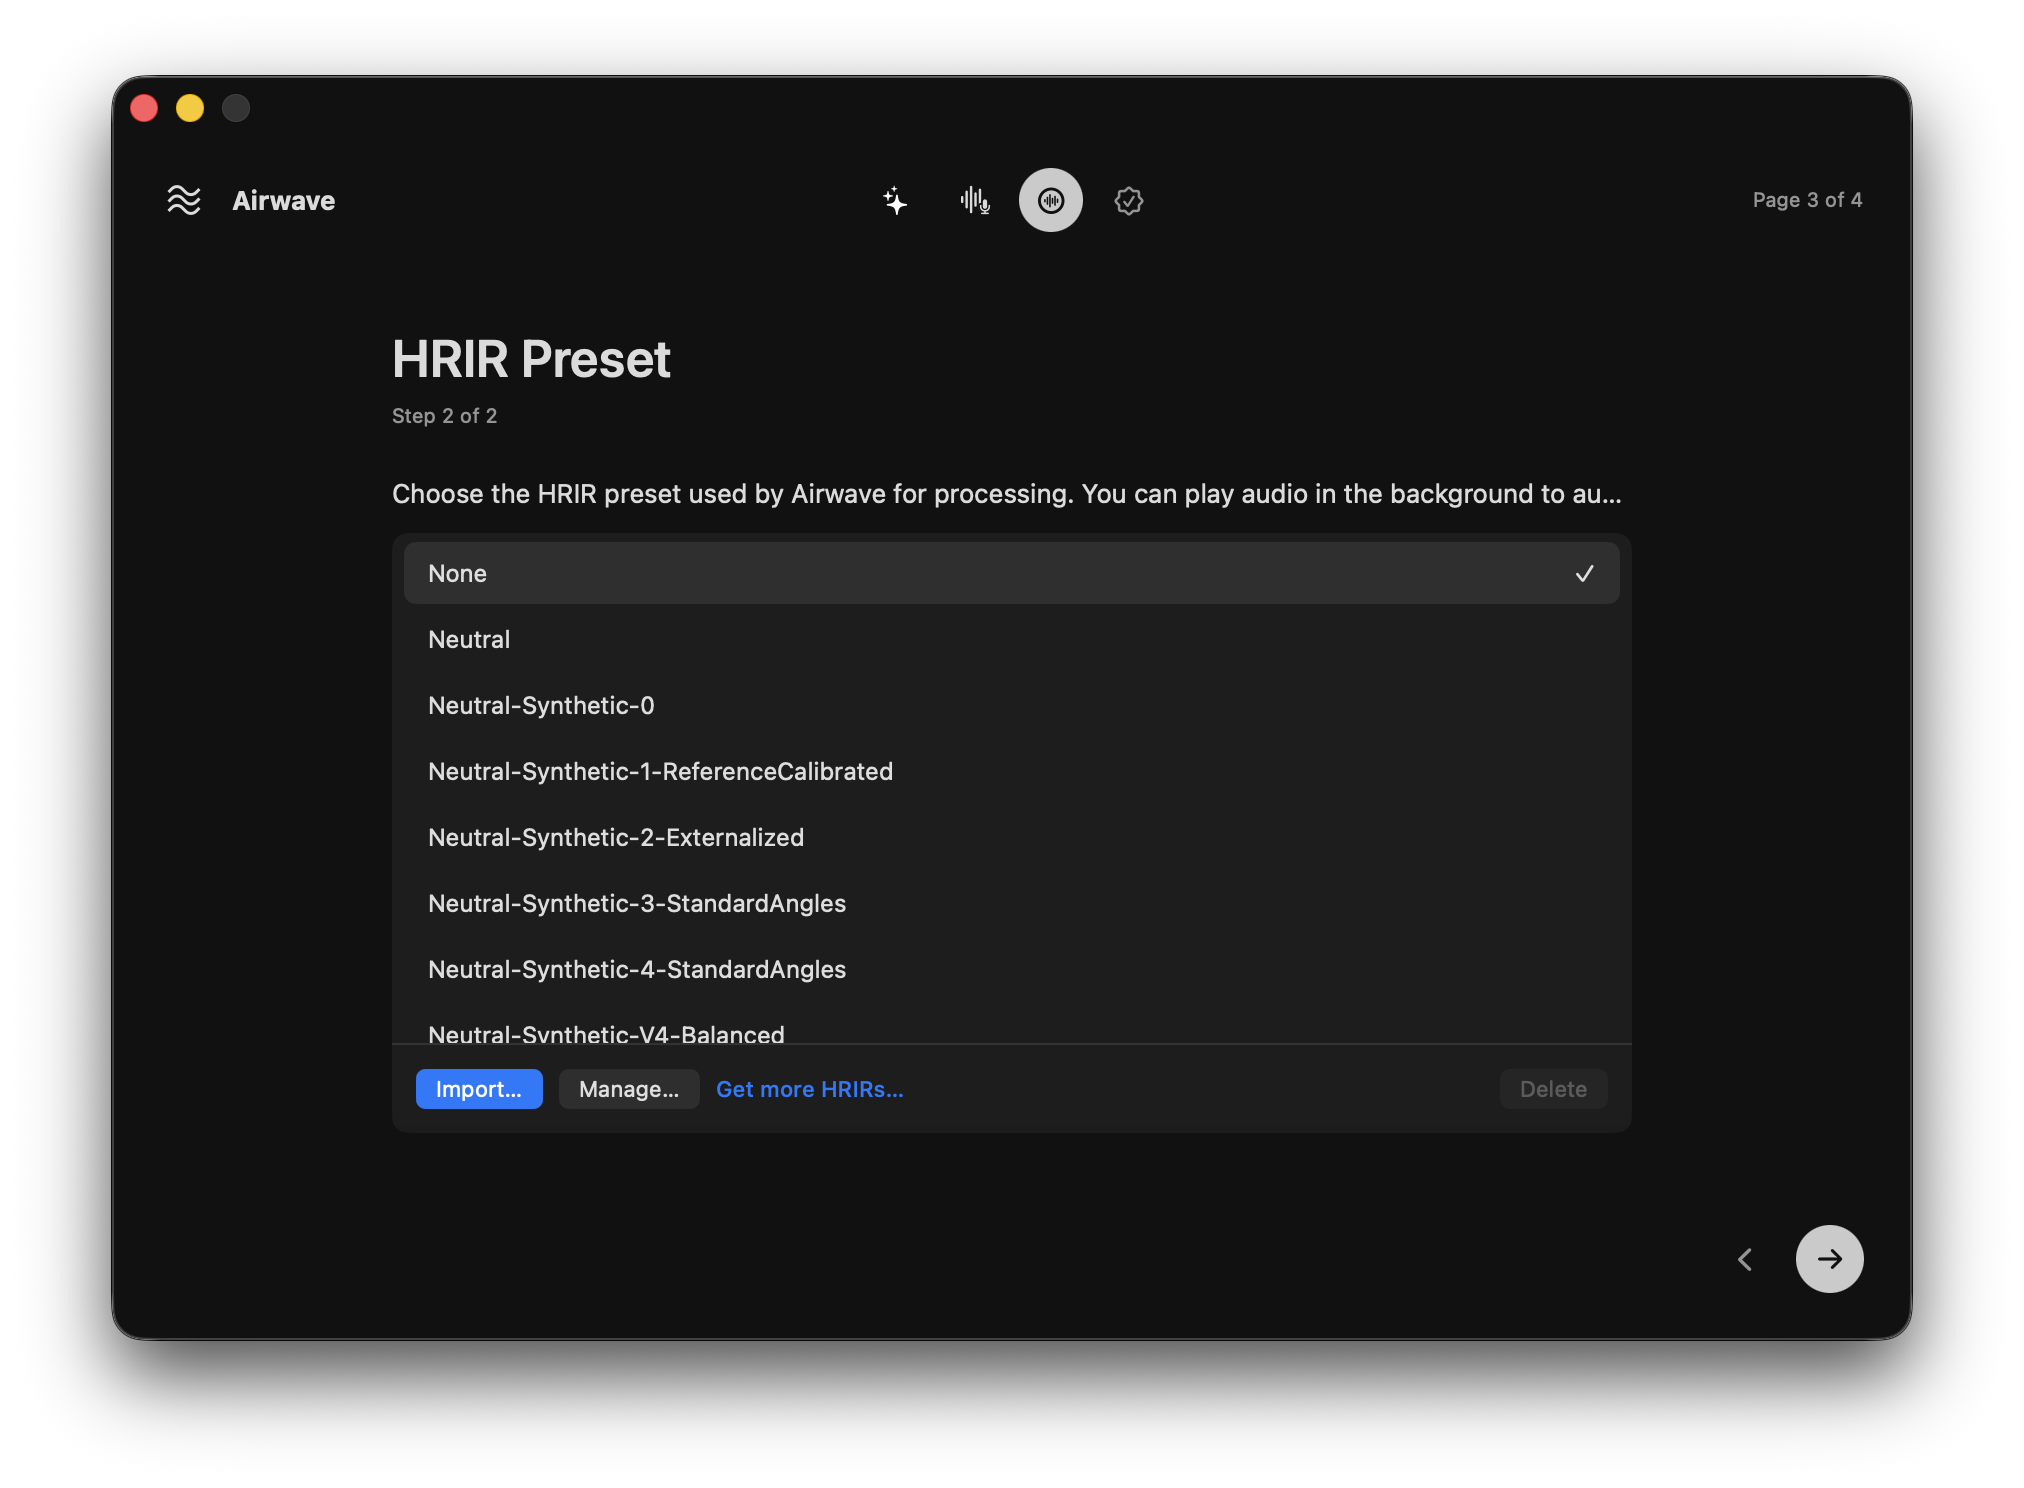
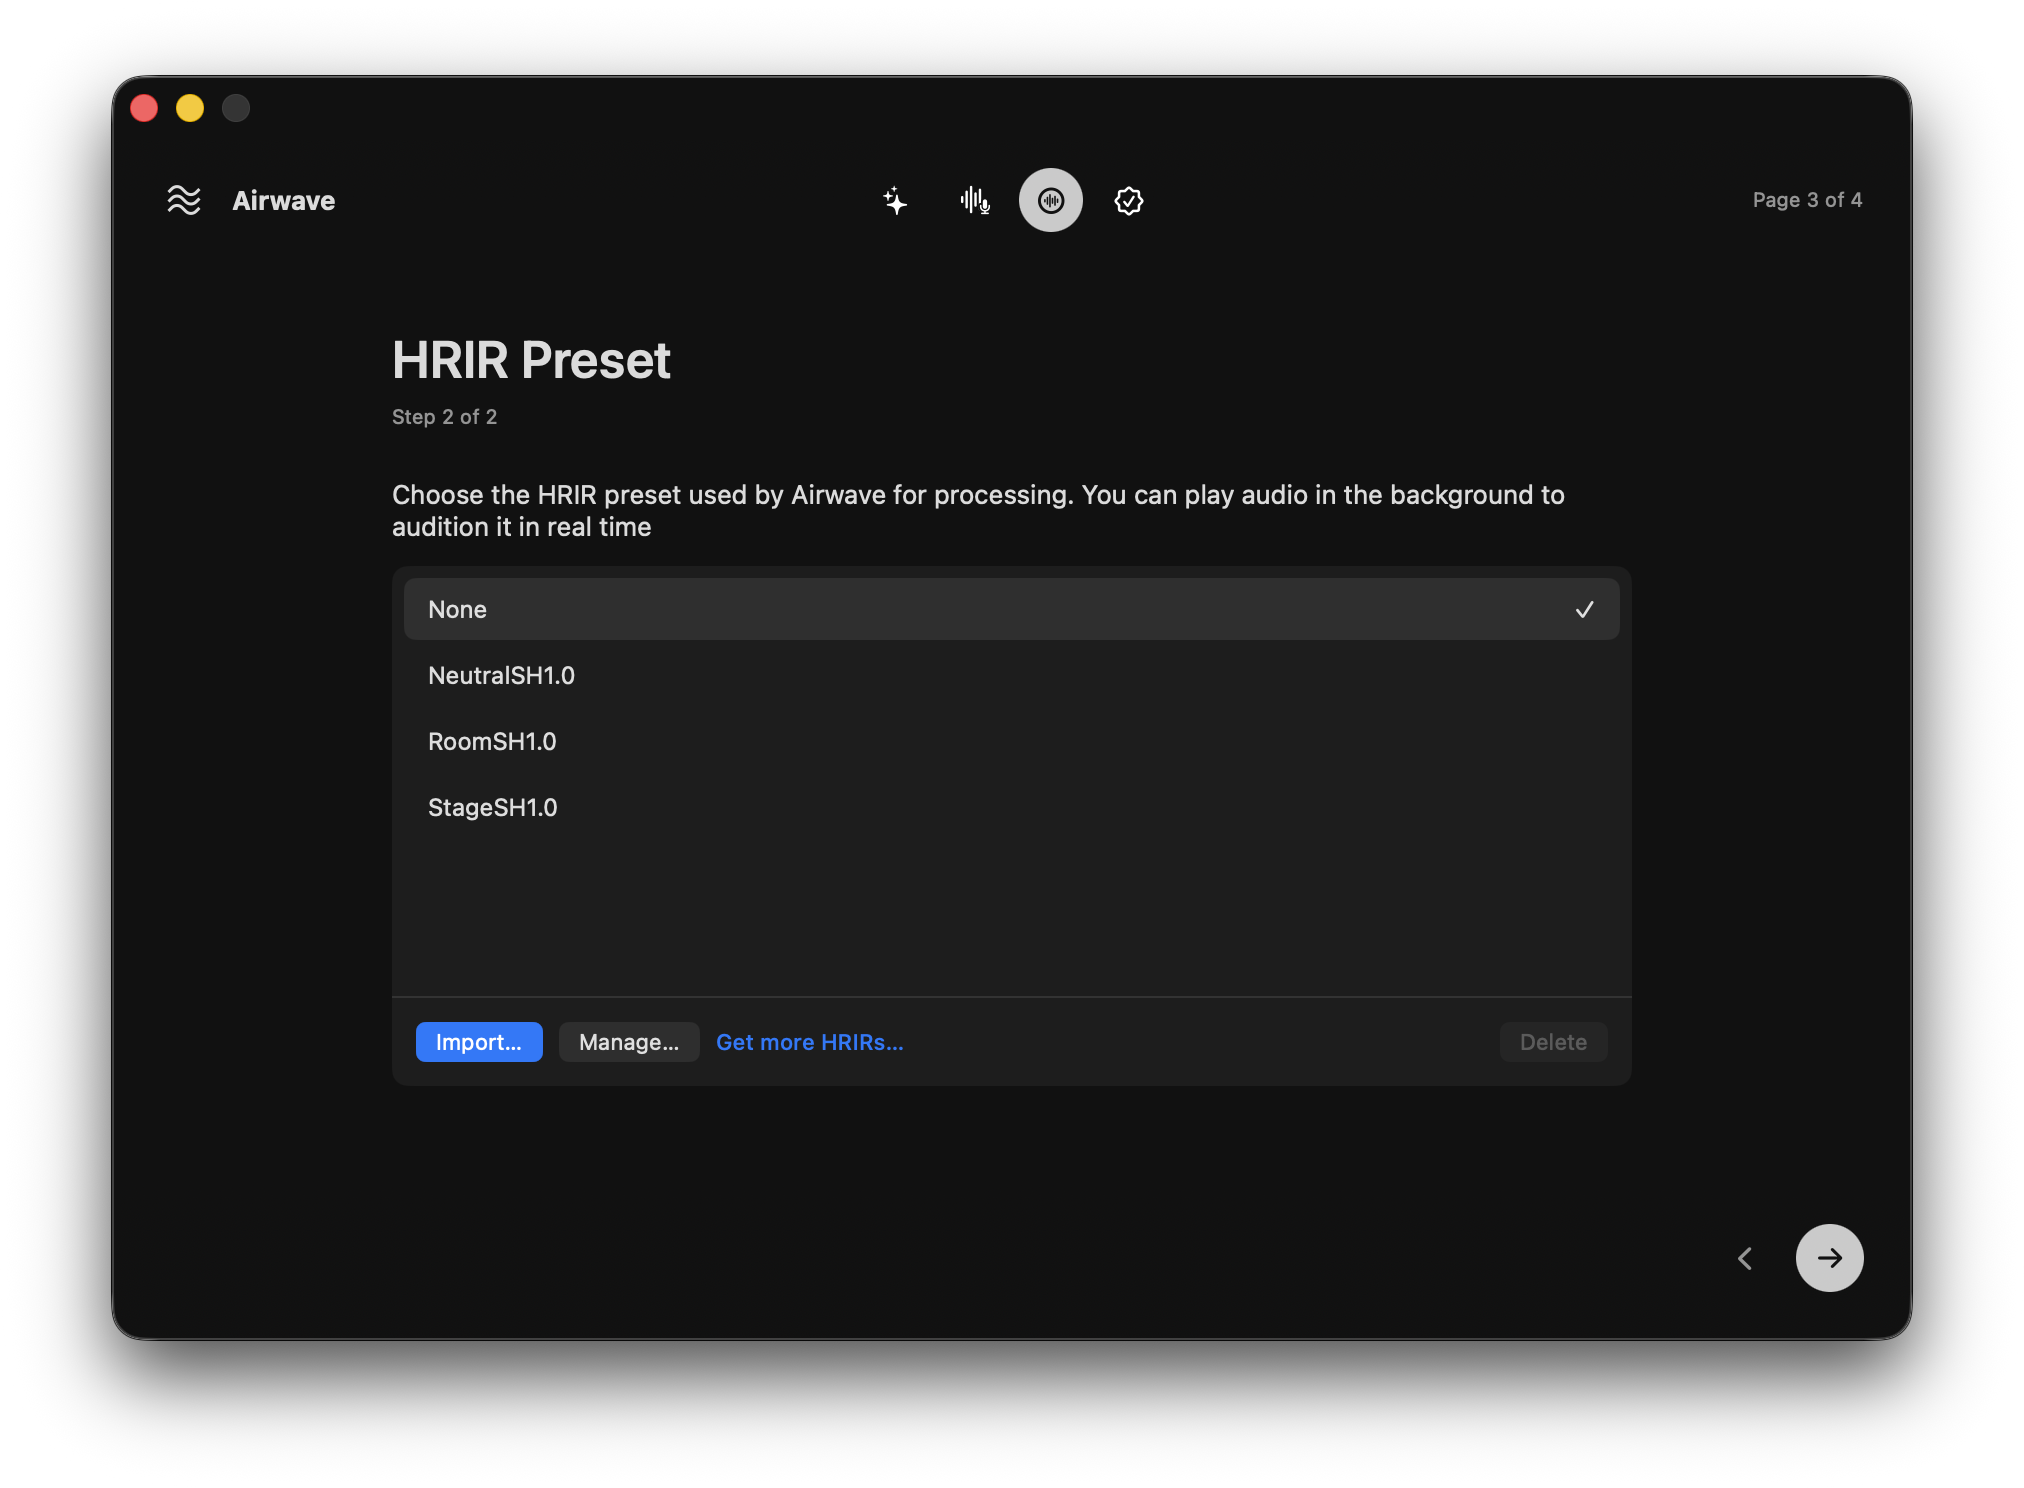
gamer

Changed region(s): [[0.1868, 0.3091, 0.8093, 0.6183], [0.1868, 0.6492, 0.4358, 0.7728], [0.747, 0.6801, 0.7782, 0.7419]]

diff --git a/AirwaveTests/ProductSurfaceTests.swift b/AirwaveTests/ProductSurfaceTests.swift
@@ -115,6 +115,15 @@ final class ProductSurfaceTests: XCTestCase {
         XCTAssertFalse(source.contains(["macOS", "Permission"].joined(separator: " ")))
     }
 
+    func testOnboardingHRIRDescriptionCanWrap() throws {
+        let root = URL(fileURLWithPath: #filePath).deletingLastPathComponent().deletingLastPathComponent()
+        let source = try String(contentsOf: root.appendingPathComponent("Airwave/OnboardingView.swift"), encoding: .utf8)
+
+        XCTAssertTrue(source.contains(".frame(maxWidth: .infinity, alignment: .leading)"))
+        XCTAssertTrue(source.contains(".fixedSize(horizontal: false, vertical: true)"))
+        XCTAssertTrue(source.contains(".frame(height: 260, alignment: .top)"))
+    }
+
     func testCaptureControlsGuidanceAndStatusCardOrder() throws {
         let root = URL(fileURLWithPath: #filePath).deletingLastPathComponent().deletingLastPathComponent()
         let source = try String(contentsOf: root.appendingPathComponent("Airwave/OnboardingView.swift"), encoding: .utf8)

diff --git a/Airwave/OnboardingView.swift b/Airwave/OnboardingView.swift
@@ -214,6 +214,8 @@ struct OnboardingView: View {
     private var hrirStep: some View {
         VStack(alignment: .leading, spacing: AirwaveLayout.sectionContentSpacing) {
             Text("Choose the HRIR preset used by Airwave for processing. You can play audio in the background to audition it in real time")
+                .frame(maxWidth: .infinity, alignment: .leading)
+                .fixedSize(horizontal: false, vertical: true)
 
             AirwaveHRIRPicker(
                 manager: hrirManager,
@@ -225,7 +227,7 @@ struct OnboardingView: View {
                     }
                 }
             )
-            .frame(height: 300, alignment: .top)
+            .frame(height: 260, alignment: .top)
             .disabled(profiles.currentDeviceUID == nil)
             .background(AirwavePalette.raised, in: RoundedRectangle(cornerRadius: AirwaveLayout.cardCornerRadius))
         }

diff --git a/Airwave/SettingsView.swift b/Airwave/SettingsView.swift
@@ -229,7 +229,7 @@ struct SettingsView: View {
             }
 
         }
-        .frame(width: 900, height: 620)
+        .frame(width: 900, height: 600)
         .preferredColorScheme(.dark)
     }
 
